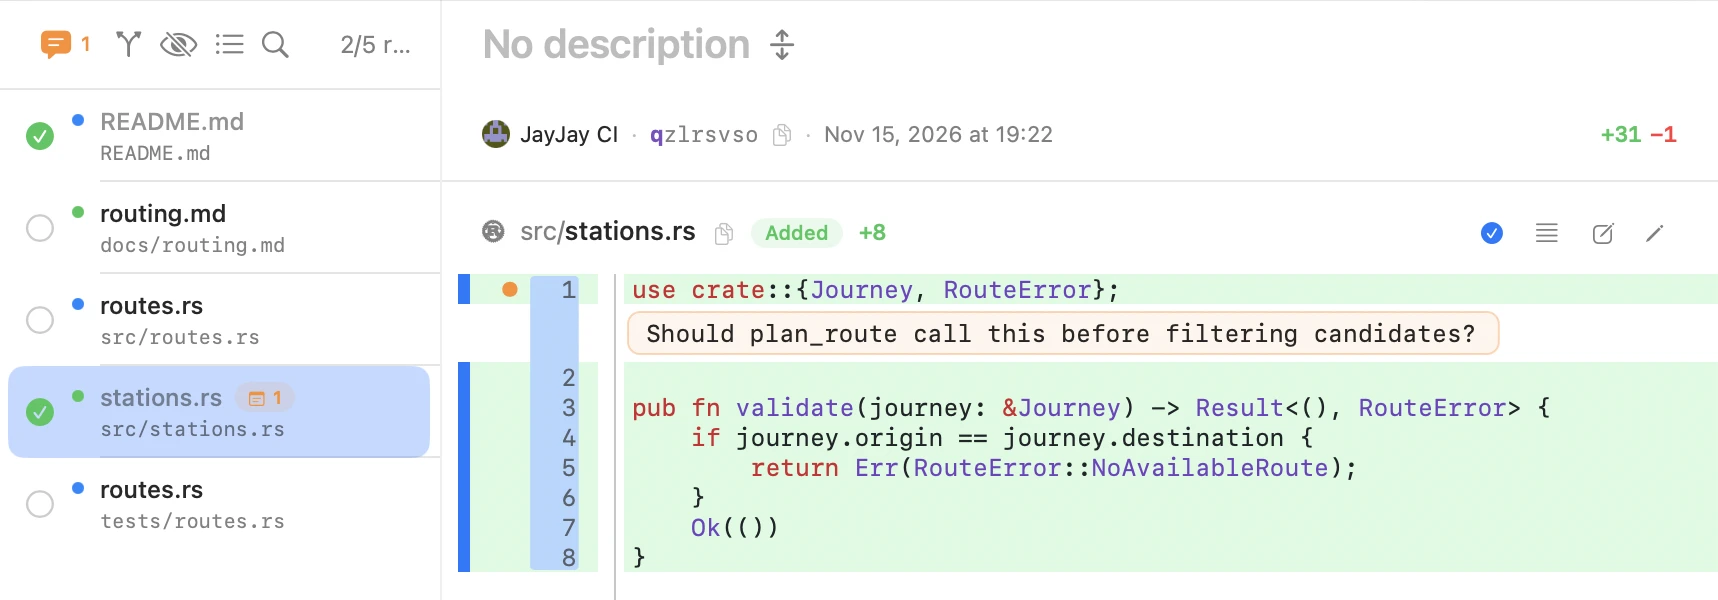
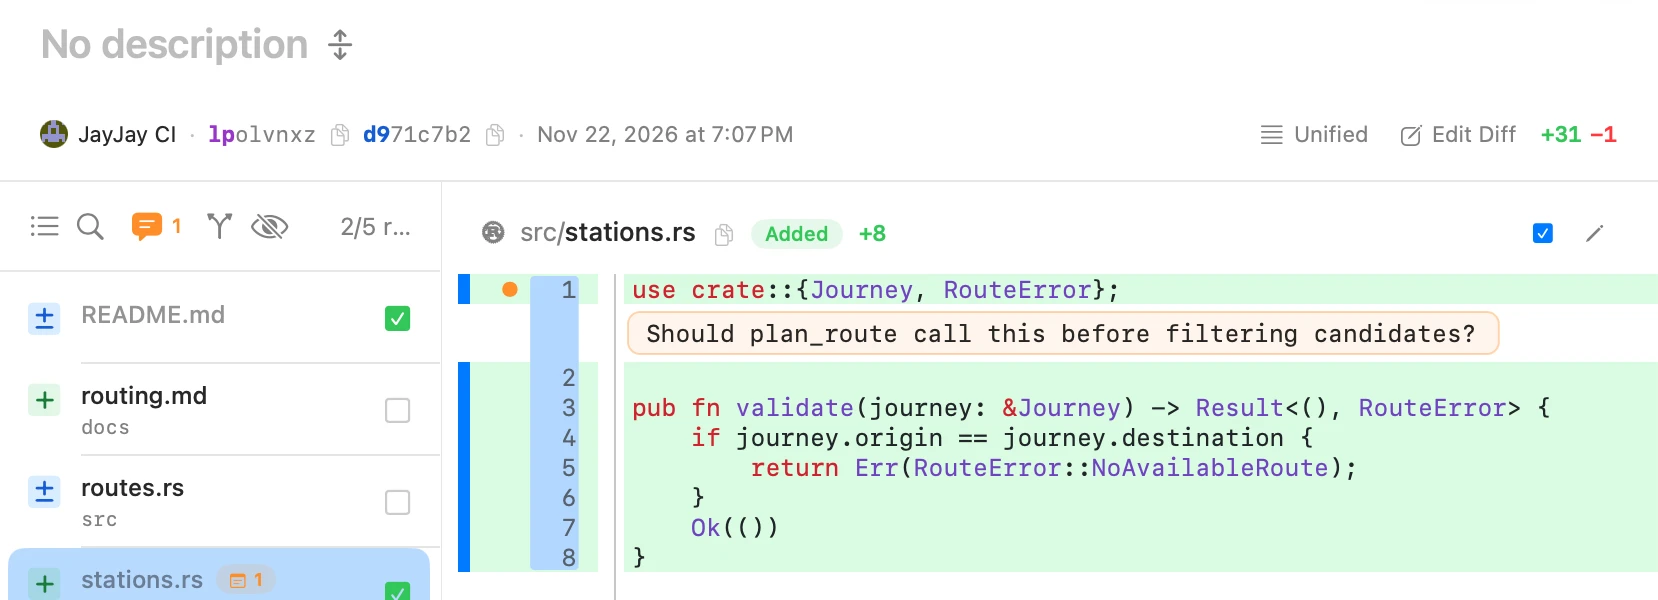
release: 0.3.25-beta.2 (build 90)

diff --git a/docs/guide.html b/docs/guide.html
@@ -174,7 +174,8 @@
         <li>The working copy is always in review mode. Other mutable changes start with review mode off unless they already have review marks or notes; turn it on per change with the review-mode button in the file column header, <strong>Repository &gt; Review Mode</strong>, or <strong>Toggle Review Mode</strong> in the command palette. With review mode off, file rows show their change type instead of review marks, the header shows the plain file count, and Mark Reviewed, Space marking, and hiding reviewed files are off; notes still show. Marking a file keeps the change in review mode, and clearing or pruning its review data drops the choice.</li>
         <li>In the tree file list, right-click a folder to mark its listed files reviewed, or unreviewed when all are reviewed. In <strong>Settings &gt; Data &amp; Privacy</strong>, <strong>Prune…</strong> removes review data for changes that are no longer mutable in recent repositories; a repository that cannot be checked keeps its data.</li>
         <li>Toggle between unified and side-by-side diffs, and browse changed files as a flat list or a tree. The file column header puts its controls first and one count last: filter matches while filtering, review progress once a file is reviewed, otherwise the file total.</li>
-        <li>The diff header shows a file-type or language icon, the file's status pill and added and removed line counts next to its name. <strong>Mark Reviewed</strong>, Preview, the Unified/Side-by-side toggle, <strong>Edit Diff</strong>, and <strong>Edit File</strong> sit on the right in one borderless style and drop to icons when the pane is narrow; <kbd>Tab</kbd> reaches Edit File after Edit Diff.</li>
+        <li>Choose Unified or Side-by-side in the change header. Use <strong>Edit Diff</strong> there to select individual lines. The file header shows the file name, change type, line counts and available file actions.</li>
+        <li>On macOS, select multiple files to read their diffs in one scrolling list. To select all listed files, focus the file list and press <kbd>⌘A</kbd> on macOS or <kbd>Ctrl+A</kbd> on Linux and Windows. To open each change this way, enable <strong>Show all files’ diffs in one list</strong> in Diff settings.</li>
         <li>Tabs occupy four visual cells when wrapping and selecting diff text; GPUI displays them as four spaces, including on Windows.</li>
         <li>Moved code is marked with linked line-number badges in unified and side-by-side diffs. Click a badge to jump to the matching block in the same file; the destination is briefly highlighted.</li>
         <li>Binary file sizes follow your locale; hover over a size to see the exact byte count.</li>
@@ -182,7 +183,7 @@
         <li>Review state is local to your machine and survives app restarts. Click a changed group's gutter stripe to review that hunk; file rows roll up unreviewed, partial, reviewed, and changed-since-review state. Marks follow uniquely matching hunks across edits and rebases, so changing one hunk does not discard review work on the others. Files whose marks came from an agent (see Review Notes) show an <strong>agent</strong> badge and are counted in the reviewed-count tooltip until you take them over.</li>
         <li>Image files render as images where possible; drag the divider between the two versions to give either side more room and double-click it to reset. SVG files open rendered, and the preview button returns to the source; SVG stays on source when the file has notes or can't render. The rendered view fits the image's own size and scales down to the pane.</li>
         <li>Supported rich previews include Markdown, SVG, HTML, notebooks, CSV/TSV tables, SARIF reports, and binary property lists. SVG and SARIF open rendered; other text-backed files stay raw by default so diff review still works, and the rich preview icon switches to the rendered view. Notebooks open as a text diff of their Markdown projection, with Preview and Source buttons beside it, since the rendered view hides what changed. Working-copy HTML files render inline in a sandboxed preview (scripts don't run); an external-open icon next to it still launches the file in the default app, so linked CSS and images work normally there too. Fenced <code>mermaid</code> blocks in rendered Markdown become diagrams offline in both shells; unsupported or oversized diagrams remain source code. On macOS, pinch to zoom the preview. Switch Preview off to read the source diff. Binary property lists open as XML with a banner, while plain XML property lists stay raw.</li>
-        <li>ZIP-family archives, including JAR, AAR, and APK files, show a file listing with checksums, sizes, and paths without decompressing their contents. Lua files and extensionless scripts with a recognized shebang receive syntax highlighting.</li>
+        <li>ZIP-family archives, including JAR, AAR, and APK files, show a file listing with checksums, sizes, and paths without decompressing their contents. Syntax highlighting recognizes extensionless scripts by their shebang and covers Dart, Dockerfile, Just, Protobuf and R.</li>
         <li>Renames, collapsed context, and ignore-whitespace behavior are reflected in the diff view. In either diff layout, use <strong>Show 10</strong> or <strong>Show all</strong> on an unmodified-lines row to reveal nearby context without leaving the file.</li>
         <li>Copying diff text excludes gutter line numbers. On macOS, select text in a side-by-side pane and press <kbd>Cmd+C</kbd> to copy the original source lines without extra line breaks from wrapping or blank rows used to align the panes.</li>
         <li>For changed working-copy text files, right-click a line number in either diff layout and choose <strong>Edit File at Line N</strong> to open the working-copy editor at that line. When the configured external editor supports line targeting, the same menu offers an action to open it at that line.</li>
@@ -199,8 +200,8 @@
         <figcaption>Markdown previews render Mermaid diagrams offline in both shells.</figcaption>
       </figure>
       <figure class="shot">
-        <img class="dark-only" src="imgs/review-dark.webp" alt="Working-copy review with a reviewed hunk and inline note" width="1718" height="600" loading="lazy">
-        <img class="light-only" src="imgs/review.webp" alt="Working-copy review with a reviewed hunk and inline note" width="1718" height="600" loading="lazy">
+        <img class="dark-only" src="imgs/review-dark.webp" alt="Working-copy review with a reviewed hunk and inline note" width="1658" height="600" loading="lazy">
+        <img class="light-only" src="imgs/review.webp" alt="Working-copy review with a reviewed hunk and inline note" width="1658" height="600" loading="lazy">
         <figcaption>Mark individual hunks reviewed and leave notes beside the lines that need attention.</figcaption>
       </figure>
     </section>
@@ -276,7 +277,8 @@
         <li><strong>Run formatters (jj fix)</strong> on a change, a multi-selection, or from the command palette runs the tools in your <code>[fix.tools]</code> config over the selected changes and their descendants with jj's semantics for <code>patterns</code>, <code>enabled</code>, <code>line-range-args</code> (or the older <code>line-range-arg</code>), and <code>run-tool-if-zero-line-ranges</code>. A failing tool leaves its file unchanged and is reported, an immutable change is refused before anything runs, a run that changes nothing records no operation, and an unusable config disables the items with the reason.</li>
         <li>Create a lightweight tag on a change from its context menu; a tagged change becomes immutable. A tag chip's menu copies the name, pushes a tag that exists only locally, and deletes it; once a tracked remote has the tag, <strong>Delete Tag on Remote</strong> asks for confirmation, removes it locally, pushes the deletion to every remote that tracks it, and restores the local tag if the push fails. Tags collapsed into the <code>+N</code> chip keep their actions in the change menu.</li>
         <li>Restore files to parent content, or delete, ignore, and untrack working-copy files where applicable. Move selected files from any change into the working copy.</li>
-        <li>Press <kbd>Cmd+Z</kbd> to undo a repository operation and <kbd>Cmd+Shift+Z</kbd> to redo it; text fields keep their own undo. History rewrites also offer an <strong>Undo</strong> toast. Working-copy snapshots are not undone, preserving edits recorded from disk. Show the <a href="#main-window">Operation Log</a> pane (<kbd>Cmd+Shift+U</kbd>) to inspect operations and restore an earlier state.</li>
+        <li>Automatic snapshots use your jj settings for <code>snapshot.auto-track</code> and <code>snapshot.max-new-file-size</code>. If a background snapshot fails, the window shows an out-of-date notice. Refresh the repository to retry after correcting the error.</li>
+        <li>Press <kbd>Cmd+Z</kbd> to undo a repository operation and <kbd>Cmd+Shift+Z</kbd> to redo it; text fields keep their own undo. History rewrites also offer an <strong>Undo</strong> toast. Working-copy snapshots are not undone, preserving edits recorded from disk. Show the <a href="#main-window">Operation Log</a> pane (<kbd>Cmd+Shift+U</kbd>) to inspect operations and restore an earlier state. On macOS, a blocked Undo explains which operation stopped it and offers to open the Operation Log.</li>
       </ul>
       <figure class="shot">
         <img class="dark-only" src="imgs/undo-operation-log-dark.webp" alt="JayJay undo operation log" width="2200" height="1400" loading="lazy">
@@ -313,7 +315,7 @@
       <h2>Workspaces <a href="#workspaces">#</a></h2>
       <ul>
         <li>Create a new jj workspace from the Repository menu (<strong>New Workspace…</strong>) or the command palette: pick a destination folder and name, and JayJay runs <code>jj workspace add</code> so you get a second working copy backed by the same repository.</li>
-        <li>Choose <strong>New Workspace from Pull Request…</strong> from the Repository menu or the command palette to check out a GitHub pull request or GitLab merge request: paste its URL, review the base repository, remote, bookmark, and head commit, then adjust the workspace name and location and let JayJay fetch the head and create the workspace. It adds the fork as a remote when needed, stops if the pull request moved since the preview, and offers to open the existing workspace instead of importing the same pull request twice. GitLab uses <code>GITLAB_TOKEN</code> when available, then an existing <code>glab auth login</code>; public merge requests also work without sign-in. Codeberg links are recognized but not yet supported.</li>
+        <li>Choose <strong>New Workspace from Pull Request…</strong> from the Repository menu or the command palette to check out a GitHub pull request or GitLab merge request: paste its URL, review the base repository, remote, bookmark, and head commit, then adjust the workspace name and location and let JayJay fetch the head and create the workspace. A pull request from the same repository defaults to the head bookmark as the workspace name. JayJay adds the fork as a remote when needed, stops if the pull request moved since the preview, and offers to open the existing workspace instead of importing the same pull request twice. GitLab uses <code>GITLAB_TOKEN</code> when available, then an existing <code>glab auth login</code>; public merge requests also work without sign-in. Codeberg links are recognized but not yet supported.</li>
         <li>From a terminal, <code>jayjay import &lt;URL&gt;</code> does the same: it fetches the pull or merge request’s head into a <code>pr-&lt;number&gt;</code> workspace beside the repository, or names the workspace that already has it; <code>--name</code> and <code>--dest</code> override the workspace name and folder. <code>jayjay workspace add &lt;name&gt;</code> creates <code>../&lt;name&gt;</code> on <code>trunk()</code> (<code>-r</code> picks another revision), and <code>jayjay workspace prune &lt;name&gt;…</code> or <code>--all</code> forgets and deletes workspaces whose changes are all in <code>trunk()</code> or empty, keeping any with pending work.</li>
         <li>Click the repository title to search and switch between this repository's workspaces, other open windows, pinned repositories, and recent repositories. The picker's Overview button opens the Repo Overview.</li>
         <li>Right-click a workspace in the title picker or its <code>name@</code> chip in the graph and choose <strong>Filter by This Workspace</strong> to narrow the graph to that workspace. Clear the revset filter to return to the default view. Open the current checkout in Finder with <strong>Repository &gt; Show in Finder</strong>, <kbd>Option+Cmd+F</kbd>, or the command palette; Windows and Linux use <strong>Show in File Manager</strong> and <kbd>Ctrl+Alt+F</kbd>.</li>

diff --git a/shell/mac/Resources/JayJayHelpBook/Contents/Resources/English.lproj/topics/open.html b/shell/mac/Resources/JayJayHelpBook/Contents/Resources/English.lproj/topics/open.html
@@ -43,7 +43,7 @@
       <li>Right-click a workspace row in the title picker, or its <code>name@</code> graph chip, and choose <strong>Filter by This Workspace</strong> to narrow the graph without switching checkouts. Clear the revset filter to restore the default view. Choose <strong>Repository &gt; Show in Finder</strong>, press <code>Option-Command-F</code>, or use the command palette to reveal the current checkout.</li>
       <li>Choosing a workspace in the title picker, or a command-palette <strong>Switch to</strong> entry, opens it in the current window, or brings its window forward if it is already open. The window keeps showing the source workspace, with the refresh indicator spinning, until the destination has loaded; if it fails to open, the source stays usable and JayJay shows the error. Unsaved commit-message drafts are kept per workspace. Option-click a workspace or choose <strong>Open in New Window</strong> from its context menu for a separate window.</li>
       <li>To create a workspace, choose <strong>Repository &gt; New Workspace…</strong> or find New Workspace in the command palette. Enter a workspace name and choose <strong>Create</strong>. JayJay creates a sibling directory with that name beside the current checkout and opens the new workspace. Cancel closes the sheet without creating it.</li>
-      <li>To check out a GitHub pull request or GitLab merge request, choose <strong>Repository &gt; New Workspace from Pull Request…</strong>: paste its URL and choose <strong>Resolve</strong>. Review the repository, bookmark, and destination in the preview, adjust the workspace name if needed, then choose <strong>Fetch &amp; Create Workspace</strong>. JayJay fetches the head and opens the new checkout; if it already exists, choose <strong>Open Workspace</strong> instead. GitLab uses <code>GITLAB_TOKEN</code> when available, then an existing <code>glab auth login</code>; public merge requests work without sign-in. A workspace row can open or copy the workspace name or checkout path, forget only the jj workspace metadata, or safely forget and delete the checkout after confirmation.</li>
+      <li>To check out a GitHub pull request or GitLab merge request, choose <strong>Repository &gt; New Workspace from Pull Request…</strong>: paste its URL and choose <strong>Resolve</strong>. Review the repository, bookmark, and destination in the preview, adjust the workspace name if needed, then choose <strong>Fetch &amp; Create Workspace</strong>. JayJay fetches the head and opens the new checkout; if it already exists, choose <strong>Open Workspace</strong> instead. GitLab uses <code>GITLAB_TOKEN</code> when available, then an existing <code>glab auth login</code>; public merge requests work without sign-in. A workspace row can open or copy the workspace name or checkout path, forget only the jj workspace metadata, or safely forget and delete the checkout after confirmation. For a pull request from the same repository, the workspace name defaults to its head bookmark.</li>
       <li><strong>Repository &gt; Repo Overview</strong> (<code>Cmd+Shift+O</code>) shows every lane of mutable work as a tree growing from trunk. Each lane card shows its workspaces and bookmarks and either its change count or what needs attention. Click a lane for its base, a Rebase onto trunk button when it is behind, its workspaces, bookmarks, and changes; click a change for its description and changed files, which you can select and copy. Filter lanes with <code>Cmd+F</code>, move with the arrow keys, press Return to show the selection in its workspace window, press Esc to step back out of a panel, and use the context menu to rebase a lane onto trunk, abandon it, or forget a workspace.</li>
       <li>When another workspace rewrites this workspace's working-copy change, the working copy is stale: the <code>@</code> row shows a warning glyph and the Refresh button a badge, and Refresh or <strong>Update Workspace</strong> in the row's menu updates it like <code>jj workspace update-stale</code>.</li>
       <li>JayJay watches the repository and working tree and refreshes visible working-copy details after external changes. A refresh waits while an editor, review-note composer, or confirmation sheet holds unfinished input.</li>

diff --git a/shell/mac/Resources/JayJayHelpBook/Contents/Resources/English.lproj/topics/operations.html b/shell/mac/Resources/JayJayHelpBook/Contents/Resources/English.lproj/topics/operations.html
@@ -42,7 +42,8 @@
       <li>Create a lightweight tag from a change's context menu. A tag chip's menu pushes a local-only tag, copies its name, or deletes it; <strong>Delete Tag on Remote</strong> removes the tag locally and from every remote that tracks it, restoring the local tag if the push fails.</li>
       <li>Right-click selected files in the file list for <strong>Split to New Change</strong>, <strong>Move to Working Copy</strong> on historical changes, or <strong>Delete from Disk</strong> on the working copy. See <a href="split.html">Split work</a> for file and line selection steps.</li>
       <li>The sparkles button beside Describe in the commit box, or beside the title of the working copy's Edit Description sheet, generates a message through an available Codex CLI, Claude CLI, or Apple Intelligence provider. Review the generated Summary and Description before choosing Describe, Save, or Commit. Drag providers in <strong>Settings &gt; Integrations</strong> to choose their fallback order.</li>
-      <li>Press <code>Cmd+Z</code> to undo a repository operation and <code>Cmd+Shift+Z</code> to redo it. Text fields keep their own undo. History rewrites also offer an <strong>Undo</strong> toast; working-copy snapshots are not undone, preserving the edits they recorded from disk.</li>
+      <li>If a background snapshot fails, JayJay shows an out-of-date notice. Correct the reported problem and refresh the repository to retry.</li>
+      <li>Press <code>Cmd+Z</code> to undo a repository operation and <code>Cmd+Shift+Z</code> to redo it. Text fields keep their own undo. History rewrites also offer an <strong>Undo</strong> toast; working-copy snapshots are not undone, preserving the edits they recorded from disk. On macOS, a blocked Undo explains which operation stopped it and offers to open the Operation Log.</li>
       <li>Choose <strong>View &gt; Show Operation Log</strong>, press <code>Cmd+Shift+U</code>, click the Operation Log button at the right of the toolbar, or click the current operation in the status bar. The Operation Log opens as a pane at the window's right edge and stays open until you hide it the same way; drag its divider to resize it. Select an earlier operation, then right-click it (or press <code>Control+Return</code>) and choose <strong>Restore</strong>, or choose <strong>Edit &gt; Restore Selected Operation</strong>, to return the local repository to that state; the current operation cannot be restored. This restores repository history and working-copy state, not published remote changes or local review marks and notes.</li>
     </ul>
     <p><a href="../Start.html">Back to JayJay Help</a> · <a href="https://jayjay.hewig.dev/guide.html#operations">Online guide with screenshots</a></p>

diff --git a/shell/mac/Resources/JayJayHelpBook/Contents/Resources/English.lproj/topics/review.html b/shell/mac/Resources/JayJayHelpBook/Contents/Resources/English.lproj/topics/review.html
@@ -36,7 +36,8 @@
       <li>The working copy is always in review mode. Other mutable changes start with review mode off unless they already have review marks or notes. To review one, select it and click the review-mode button in the file list header, choose <strong>Repository &gt; Review Mode</strong>, or run <strong>Toggle Review Mode</strong> from the command palette. With review mode off, file rows show their change type instead of review marks, the header shows the plain file count, and Mark Reviewed, <code>Space</code> marking, and hiding reviewed files are off; notes still show. Marking a file keeps the change in review mode.</li>
       <li>File rows show the folder under the file name; files at the repository root have no second line, and a move shows its full source and destination. A change with no files shows <strong>No Files Changed</strong> instead of the file list. When a change has files but none are listed, the detail names the cause, such as a filter with no match or hidden reviewed files, and offers a link that undoes it.</li>
       <li>In the tree file list, right-click a folder to mark its listed files reviewed, or unreviewed when all are reviewed. <strong>Settings &gt; Data &amp; Privacy &gt; Prune…</strong> removes review data for changes that are no longer mutable in recent repositories.</li>
-      <li>The diff header shows a file-type or language icon, the file's status pill and added and removed line counts next to its name. <strong>Mark Reviewed</strong>, Preview, the Unified/Side-by-side toggle, <strong>Edit Diff</strong>, and <strong>Edit File</strong> sit on the right and drop to icons when the pane is narrow; <code>Tab</code> reaches Edit File after Edit Diff. The command palette also toggles the diff layout.</li>
+      <li>Choose Unified or Side-by-side in the change header. Use <strong>Edit Diff</strong> there to select individual lines. The file header shows the file name, change type, line counts and available file actions.</li>
+      <li>Select multiple files to read their diffs in one scrolling list. With the file list focused, press <kbd>⌘A</kbd> to select all listed files. To open each change this way, enable <strong>Show all files’ diffs in one list</strong> in Diff settings.</li>
       <li>The file list header puts its controls first and one count last: filter matches while filtering, review progress once a file is reviewed, otherwise the file total.</li>
       <li>Tabs occupy four visual cells when wrapping and selecting diff text.</li>
       <li>Moved code has linked line-number badges in unified and side-by-side diffs. Click a badge to jump to the matching block in the same file; its destination is briefly highlighted.</li>

diff --git a/releases/0.3.25-beta.2.html b/releases/0.3.25-beta.2.html
@@ -1,0 +1,15 @@
+<h2>Read several files in one diff</h2>
+<ul>
+  <li>Select several files to scroll through their diffs together, or press ⌘A in the file list to select them all. Enable <strong>Show all files’ diffs in one list</strong> in Diff settings to start with the whole change.</li>
+  <li>Stacked diffs support unified and side-by-side layouts. The current file’s header stays visible as you scroll. You can focus on one file and return to the full list, and collapsing a folder keeps its selected files in the preview.</li>
+  <li>The layout switch and <strong>Edit Diff</strong> are in the change header. In Edit Diff, use a gutter stripe or its menu to deselect a change group. Background rename detection now preserves your line selections.</li>
+  <li>A checkbox at the end of each file row shows its review state. Marking several files together saves their marks in one operation.</li>
+</ul>
+
+<h2>Working copies and history</h2>
+<ul>
+  <li>Large changes show their file list while rename detection runs. Syntax highlighting now recognizes Dart, Dockerfile, Just, Protobuf and R, along with more extensionless scripts.</li>
+  <li>Working-copy snapshots respect <code>snapshot.auto-track</code> and <code>snapshot.max-new-file-size</code>. If an automatic snapshot fails, a notice tells you the view is out of date and clears after a successful snapshot.</li>
+  <li>When a snapshot or another workspace’s operation blocks Undo, ⌘Z explains why and offers to open the Operation Log. Undo is disabled while a repository action or refresh is in progress.</li>
+  <li>A pull request from the same repository uses its head bookmark to name the new workspace. Remote repository operations can find the macOS desktop SSH agent when you connect through SSH.</li>
+</ul>

diff --git a/docs/ja/index.html b/docs/ja/index.html
@@ -189,8 +189,8 @@
           <p class="note">コーディングエージェントは <code>jayjay</code> CLI でメモを読み、ファイルをマークできます。<a href="https://github.com/hewigovens/jayjay/tree/main/skills/jayjay">JayJay スキル</a>は <code>npx skills add hewigovens/jayjay --skill jayjay</code> でインストールするか、macOS では「設定」&gt;「連携」から追加できます。</p>
         </div>
         <div class="show-img">
-          <img class="dark-only" src="../imgs/review-dark.webp" srcset="../imgs/review-dark-1100.webp 1100w, ../imgs/review-dark.webp 2200w" sizes="(max-width: 860px) 100vw, 580px" alt="レビュー済みのハンクとインラインメモがある作業コピーのレビュー" width="2200" height="1400" loading="lazy">
-          <img class="light-only" src="../imgs/review.webp" srcset="../imgs/review-1100.webp 1100w, ../imgs/review.webp 2200w" sizes="(max-width: 860px) 100vw, 580px" alt="レビュー済みのハンクとインラインメモがある作業コピーのレビュー" width="2200" height="1400" loading="lazy">
+          <img class="dark-only" src="../imgs/review-dark.webp" srcset="../imgs/review-dark-1100.webp 1100w, ../imgs/review-dark.webp 1658w" sizes="(max-width: 860px) 100vw, 580px" alt="レビュー済みのハンクとインラインメモがある作業コピーのレビュー" width="1658" height="600" loading="lazy">
+          <img class="light-only" src="../imgs/review.webp" srcset="../imgs/review-1100.webp 1100w, ../imgs/review.webp 1658w" sizes="(max-width: 860px) 100vw, 580px" alt="レビュー済みのハンクとインラインメモがある作業コピーのレビュー" width="1658" height="600" loading="lazy">
         </div>
       </div>
 

diff --git a/docs/zh-hant/index.html b/docs/zh-hant/index.html
@@ -189,8 +189,8 @@
           <p class="note">AI 代理程式可透過 <code>jayjay</code> CLI 讀取你的審查備註並標記檔案。用 <code>npx skills add hewigovens/jayjay --skill jayjay</code> 安裝 <a href="https://github.com/hewigovens/jayjay/tree/main/skills/jayjay">JayJay 技能</a>，或在 macOS 上從「設定」&gt;「整合」安裝。</p>
         </div>
         <div class="show-img">
-          <img class="dark-only" src="../imgs/review-dark.webp" srcset="../imgs/review-dark-1100.webp 1100w, ../imgs/review-dark.webp 2200w" sizes="(max-width: 860px) 100vw, 580px" alt="具已審查差異區塊與行內審查備註的工作副本審查" width="2200" height="1400" loading="lazy">
-          <img class="light-only" src="../imgs/review.webp" srcset="../imgs/review-1100.webp 1100w, ../imgs/review.webp 2200w" sizes="(max-width: 860px) 100vw, 580px" alt="具已審查差異區塊與行內審查備註的工作副本審查" width="2200" height="1400" loading="lazy">
+          <img class="dark-only" src="../imgs/review-dark.webp" srcset="../imgs/review-dark-1100.webp 1100w, ../imgs/review-dark.webp 1658w" sizes="(max-width: 860px) 100vw, 580px" alt="具已審查差異區塊與行內審查備註的工作副本審查" width="1658" height="600" loading="lazy">
+          <img class="light-only" src="../imgs/review.webp" srcset="../imgs/review-1100.webp 1100w, ../imgs/review.webp 1658w" sizes="(max-width: 860px) 100vw, 580px" alt="具已審查差異區塊與行內審查備註的工作副本審查" width="1658" height="600" loading="lazy">
         </div>
       </div>
 

diff --git a/docs/zh-hans/index.html b/docs/zh-hans/index.html
@@ -189,8 +189,8 @@
           <p class="note">编程智能体可以通过 <code>jayjay</code> CLI 读取你的备注并标记文件。用 <code>npx skills add hewigovens/jayjay --skill jayjay</code> 安装 <a href="https://github.com/hewigovens/jayjay/tree/main/skills/jayjay">JayJay 技能</a>，或在 macOS 上从“设置”&gt;“集成”安装。</p>
         </div>
         <div class="show-img">
-          <img class="dark-only" src="../imgs/review-dark.webp" srcset="../imgs/review-dark-1100.webp 1100w, ../imgs/review-dark.webp 2200w" sizes="(max-width: 860px) 100vw, 580px" alt="带已评审差异块和行内备注的工作副本评审" width="2200" height="1400" loading="lazy">
-          <img class="light-only" src="../imgs/review.webp" srcset="../imgs/review-1100.webp 1100w, ../imgs/review.webp 2200w" sizes="(max-width: 860px) 100vw, 580px" alt="带已评审差异块和行内备注的工作副本评审" width="2200" height="1400" loading="lazy">
+          <img class="dark-only" src="../imgs/review-dark.webp" srcset="../imgs/review-dark-1100.webp 1100w, ../imgs/review-dark.webp 1658w" sizes="(max-width: 860px) 100vw, 580px" alt="带已评审差异块和行内备注的工作副本评审" width="1658" height="600" loading="lazy">
+          <img class="light-only" src="../imgs/review.webp" srcset="../imgs/review-1100.webp 1100w, ../imgs/review.webp 1658w" sizes="(max-width: 860px) 100vw, 580px" alt="带已评审差异块和行内备注的工作副本评审" width="1658" height="600" loading="lazy">
         </div>
       </div>
 

diff --git a/shell/mac/Resources/JayJayHelpBook/Contents/Resources/English.lproj/topics/split.html b/shell/mac/Resources/JayJayHelpBook/Contents/Resources/English.lproj/topics/split.html
@@ -31,7 +31,7 @@
     <a name="split"></a>
     <p class="eyebrow">Changes</p>
     <h1>Split work from a change</h1>
-    <p>Select a mutable change in the graph and a text file in its file list, then click <strong>Edit Diff</strong> in the diff header. In this editor, use a file’s checkbox to select the whole file, a hunk control to select its changed lines, or click individual changed lines in the gutter. The selection count shows what is checked.</p>
+    <p>Select a mutable change in the graph, then click <strong>Edit Diff</strong> in the change header. In this editor, use a file’s checkbox to select the whole file, a hunk control to select its changed lines, or click individual changed lines in the gutter. The selection count shows what is checked.</p>
     <ul>
       <li>File cards show +/− line counts and collapse in place; large diffs start collapsed. Expand All and Collapse All (⌥⌘E / ⌥⌘C) toggle every file, while j / k or the arrow keys move focus between cards, ← / → collapse or expand the focused card, Return toggles it, and Space selects its changed lines.</li>
       <li>To split whole files, select them in the file list, right-click, and choose <strong>Split to New Change</strong> (or <strong>Split N Files to New Change</strong>). Enter a description in the sheet, optionally turn on <strong>Parallel split</strong>, and choose <strong>Split</strong>. You can also mark files reviewed with Space and use the split button above the file list to split those checked files.</li>

diff --git a/docs/index.html b/docs/index.html
@@ -186,8 +186,8 @@
           <p class="note">Coding agents can read your notes and mark files with the <code>jayjay</code> CLI. Install the <a href="https://github.com/hewigovens/jayjay/tree/main/skills/jayjay">JayJay skill</a> with <code>npx skills add hewigovens/jayjay --skill jayjay</code>, or on macOS from Settings &gt; Integrations.</p>
         </div>
         <div class="show-img">
-          <img class="dark-only" src="imgs/review-dark.webp" srcset="imgs/review-dark-1100.webp 1100w, imgs/review-dark.webp 2200w" sizes="(max-width: 860px) 100vw, 580px" alt="Working-copy review with a reviewed hunk and inline note" width="2200" height="1400" loading="lazy">
-          <img class="light-only" src="imgs/review.webp" srcset="imgs/review-1100.webp 1100w, imgs/review.webp 2200w" sizes="(max-width: 860px) 100vw, 580px" alt="Working-copy review with a reviewed hunk and inline note" width="2200" height="1400" loading="lazy">
+          <img class="dark-only" src="imgs/review-dark.webp" srcset="imgs/review-dark-1100.webp 1100w, imgs/review-dark.webp 1658w" sizes="(max-width: 860px) 100vw, 580px" alt="Working-copy review with a reviewed hunk and inline note" width="1658" height="600" loading="lazy">
+          <img class="light-only" src="imgs/review.webp" srcset="imgs/review-1100.webp 1100w, imgs/review.webp 1658w" sizes="(max-width: 860px) 100vw, 580px" alt="Working-copy review with a reviewed hunk and inline note" width="1658" height="600" loading="lazy">
         </div>
       </div>
 

diff --git a/agents/shell-parity.md b/agents/shell-parity.md
@@ -13,6 +13,7 @@ Refresh it during the [release documentation pass](release.md), or when explicit
 | Help and feedback | macOS includes a bundled Help Book and Apple Mail integration for attaching diagnostic logs. GPUI on Linux and Windows opens the online guide and reveals logs for attachment. |
 | Operation Log pane | SwiftUI seats the toolbar toggle at the open pane's leading edge, makes the toggle and the list Tab stops, lists Restore Selected Operation in the command palette, and narrows the pane to fit a small window. GPUI on Linux and Windows pins the toggle to the window's trailing corner in every state, has no Tab stop for the toggle or list, restores from the row menu, Ctrl+Return, or Edit menu, and hides the pane with a notice when the window cannot keep its minimum width. |
 | Working-copy Commit | Both shells offer Commit in a described working copy's change menu and in its description sheet; only the SwiftUI command palette lists Commit. |
+| Multi-file diffs | SwiftUI can stack a selection of files. GPUI stacks the visible file list when **Show all files’ diffs in one list** is enabled. |
 | Desktop integration | SwiftUI provides macOS Dock icons and menus, AppleScript automation, Rex integration, and the Coding Agents skill-install toggle. GPUI follows Linux and Windows desktop conventions; these macOS integrations are not parity gaps. |
 | Tools and shortcuts | Linux uses desktop openers and system editor/terminal preferences; Windows uses Windows shell integration. Shortcuts use platform modifiers and native text-editing conventions. The Linux CLI installer links into `~/.local/bin`. |
 | Distribution | macOS uses the signed app and Sparkle updater. Linux ships AppImage and Debian packages. Windows ships Store packages and x64/ARM64 portable ZIPs; portable ZIPs have no automatic updater. |

diff --git a/releases/0.3.25-beta.2-gpui.md b/releases/0.3.25-beta.2-gpui.md
@@ -1,0 +1,11 @@
+## Files and review
+
+- Enable **Show all files’ diffs in one list** in Diff settings to scroll through a change. Ctrl+A selects every file when the file list has focus.
+- Switch diff layout or open **Edit Diff** from the change header. File rows show a review checkbox at the trailing edge, and marking several files together saves their marks in one operation.
+- Large changes list their files while rename detection runs. Syntax highlighting adds Dart, Dockerfile, Just, Protobuf and R, and recognizes more files by name and shebang.
+
+## Working copies and remote repositories
+
+- Working-copy snapshots respect `snapshot.auto-track` and `snapshot.max-new-file-size`. An automatic snapshot failure shows a notice that clears after a successful snapshot.
+- If the selected operation disappears during refresh, Restore clears its target.
+- A pull request from the same repository uses its head bookmark to name the new workspace. On Linux, remote repository operations can discover your desktop SSH agent.
